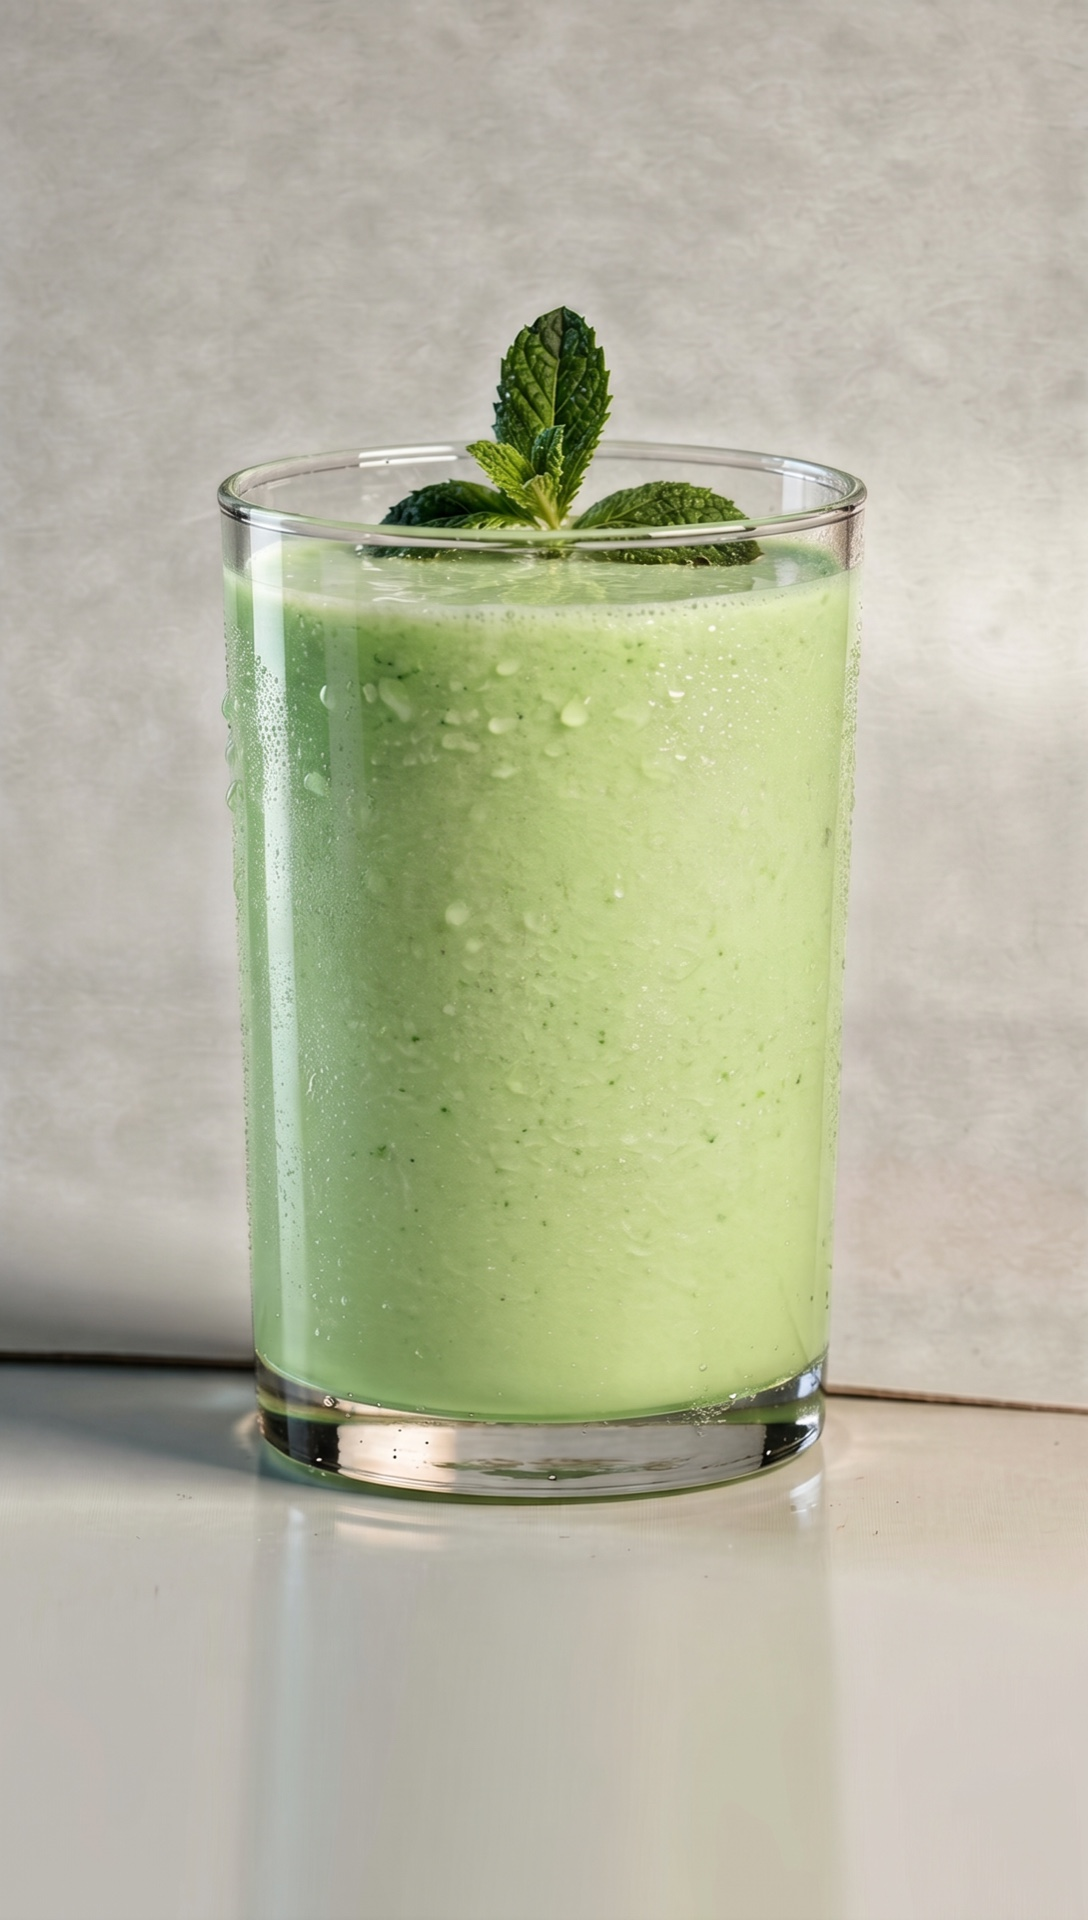
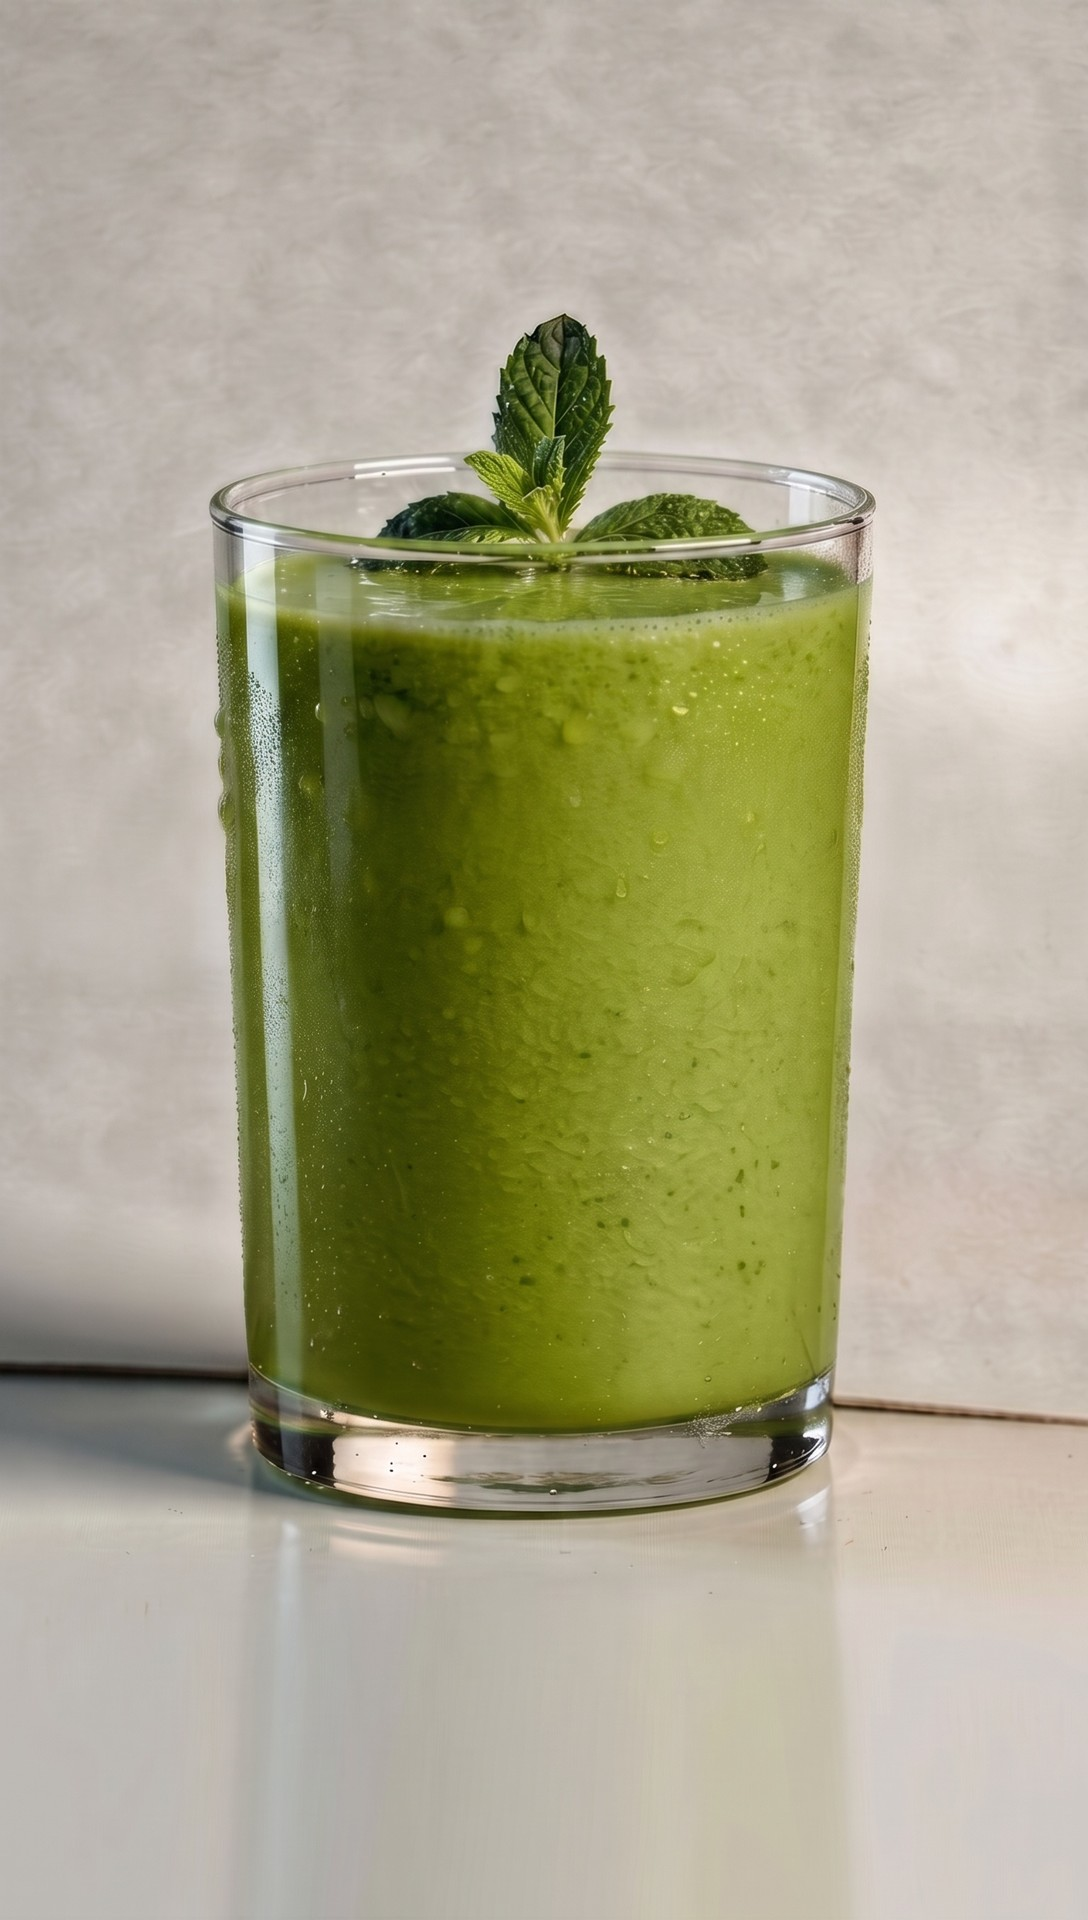
push new glasses

diff --git a/app/components/ResetSpotlight.tsx b/app/components/ResetSpotlight.tsx
@@ -45,7 +45,7 @@ const PRODUCT_DATA: ResetEntry[] = [
         id: 'balance',
         href: '/reset/balance',
         render: '/images/boxes/reset-balance-box.png',
-        glass: '/images/glasses/reset-balance-glass-v2.jpg',
+        glass: '/images/glasses/reset-balance-glass-cut.png',
         accent: 'var(--balance)',
         tint: 'var(--balance-tint)',
     },
@@ -53,7 +53,7 @@ const PRODUCT_DATA: ResetEntry[] = [
         id: 'intense',
         href: '/reset/intense',
         render: '/images/boxes/reset-intense-box.png',
-        glass: '/images/glasses/reset-intense-glass-v2.jpg',
+        glass: '/images/glasses/reset-intense-glass-cut.png',
         accent: 'var(--intense)',
         tint: 'var(--intense-tint)',
     },
@@ -94,8 +94,7 @@ export default function ResetSpotlight() {
                ("Everyday: …") that the bento used as a caption. */
             tagline: tr.desc,
             whyBlend: tr.whyBlend,
-            glassFit: 'cover',
-            glassFramed: true,
+            glassFit: 'contain',
         };
     });
 
